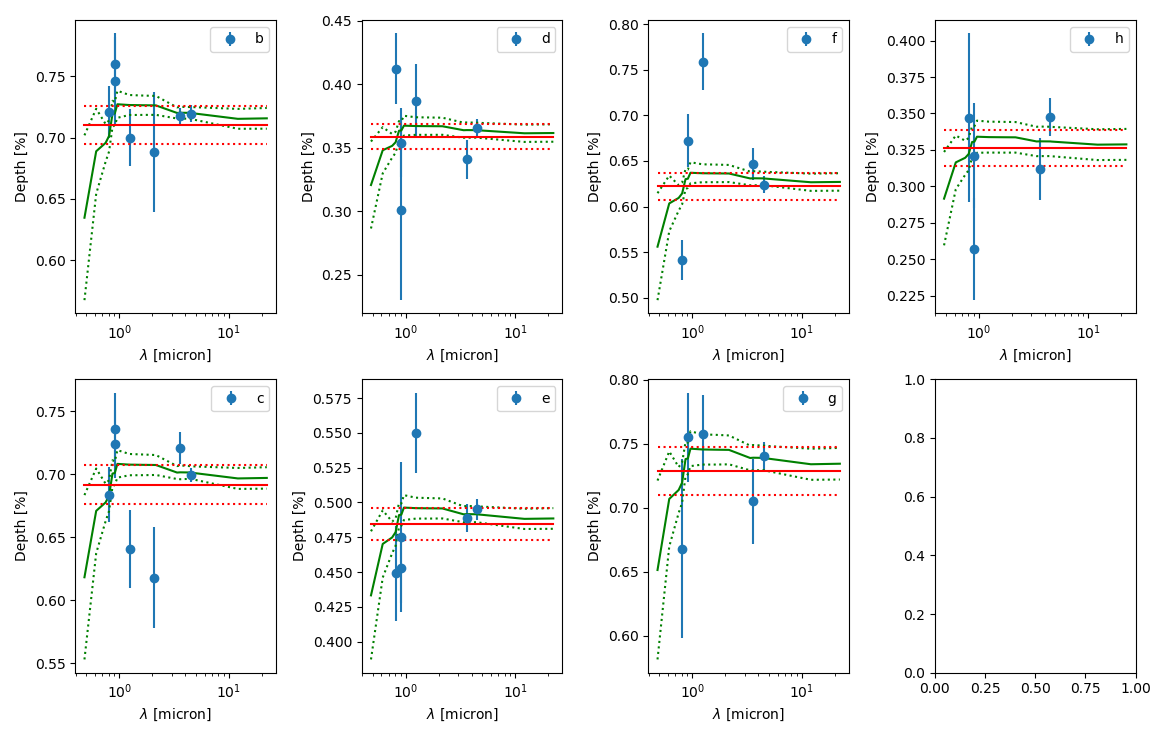
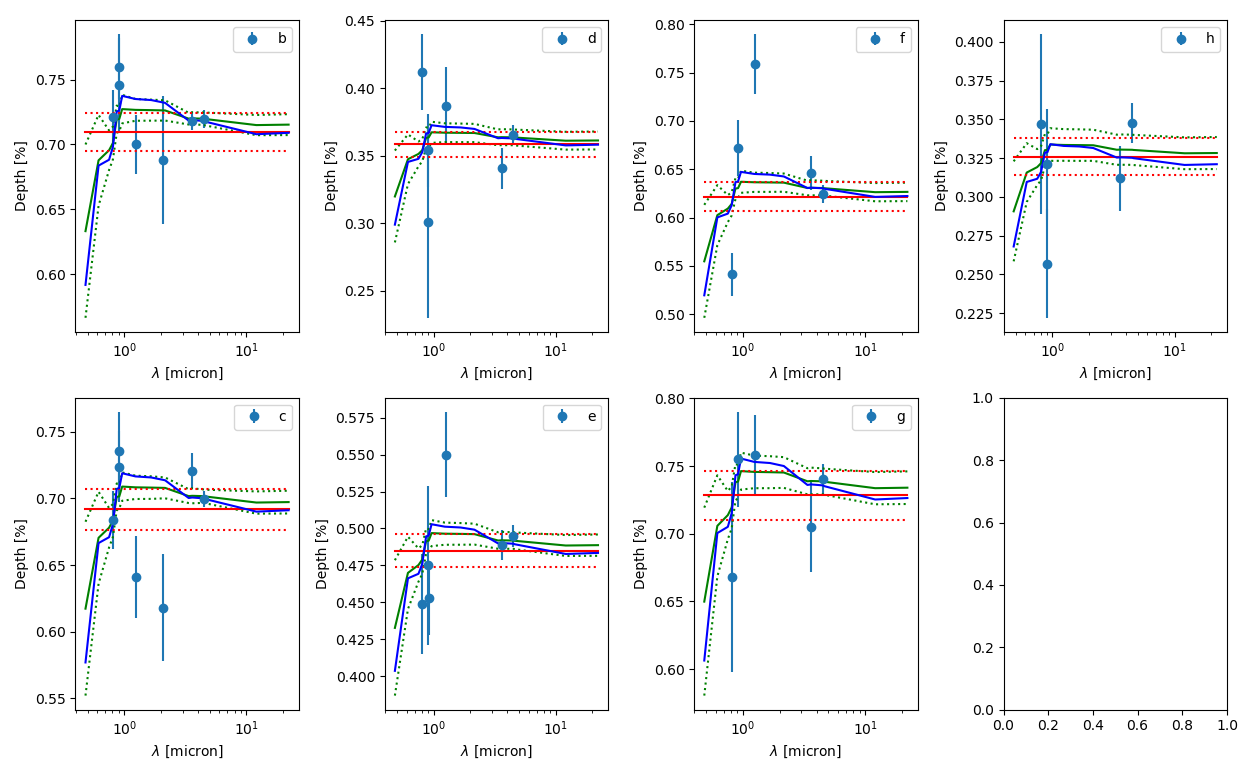
Added 3-temperature contamination model constraints to the paper

diff --git a/tex/refining_trappist1_ttvs.tex b/tex/refining_trappist1_ttvs.tex
@@ -1796,18 +1796,20 @@ time-steady inhomogeneity will not, such as active latitudes, polar spots, or ev
 hemispheric asymmetry \citep{Yadav2015,Brown2020}.  We modeled the transit-transmission 
 in the K2, SPECULOOS, LT, near-infrared, and Spitzer bands from \citet{Ducrot2020} for all
 seven planets using the contamination formula from \citet{Rackham2018} with a time-steady, 
-two-temperature model with the temperatures of the two components ranging from 2000-2980 K 
+three-temperature model with the temperatures of the three components ranging from 2000-2980 K 
 and the covering fraction varying from 0 to 1.  The mean effective temperature is constrained 
 by our stellar model parameters (Table \ref{tab:stellar_parameters}). We assumed that all seven 
 planets transit the region with the larger covering fraction, and that their transit depths are
 achromatic.  We ran a Markov chain fit to the transmission spectra, interpolating the fluxes in 
 the bands between the effective temperature grid points which were spaced by 20 K. We then computed 
 the expected impact on the transit depths in the two IRAC channels.  The constraints are tight: we 
-find that the observed depths should only change by a factor of $0.9979{\pm}0.0024$ in Channel 1 
-and $0.9973{\pm}0.0030$ in Channel 2.  These factors are consistent with unity within the 
-uncertainties, and have uncertainties which are much smaller than the uncertainties on the 
-absolute planetary radii. We conclude that this form of self-contamination does not influence 
-our results.  This constraint is much stronger than the analysis of \citet{Morris2018c}.}
+find that the observed radii should only change by a factor of $1.0072{\pm}0.0097$ in Channel 1 
+and $1.0071{\pm}0.0108$ in Channel 2 (these are the ratios of the observed radii to the actual
+radii).  These factors are consistent with unity at better than $1\sigma$, and have uncertainties 
+which are comparable to or smaller than the uncertainties on the absolute planetary radii. We 
+conclude that this form of self-contamination does not greatly influence our results, but should 
+lead to caution in the interpretation.  This constraint is much stronger than the analysis of 
+\citet{Morris2018c}.}
 
 Our mass precisions are predicated on a complete model of the dynamics of the system.  \textbf{We neglect tides and general relativity, which are too small in amplitude to affect our results at the current survey duration and timing precision \citep{Bolmont2020}.} Should an eighth planet be lurking at longer orbital periods, which has yet to reveal itself via significant transit-timing variations or transits, this may modify our timing solution and shift the masses slightly.  In our timing search for an additional planet, however, we found that such a planet might only cause shifts at the ${\approx} 1\sigma$ level.  This possibility begs for caution in interpreting the potential variation of iron fraction with orbital period:  should an eighth planet be present beyond planet h, its timing impact would likely affect the masses of the exterior planets more significantly than the interior planets.  Drawing stronger conclusions about the variation of planet iron/core mass fractions will likely require longer-term monitoring, especially of planet h, and/or higher precision timing measurements such as are expected with JWST, to place tighter constraints on an eighth planet.
 
